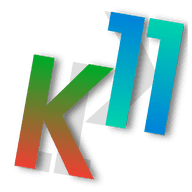
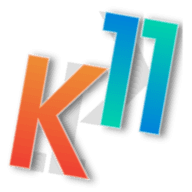
added new generated pack with simplified palette

diff --git a/iconpack/html_code.html b/iconpack/html_code.html
@@ -1,7 +1,9 @@
 <link rel="apple-touch-icon" sizes="180x180" href="/apple-touch-icon.png">
 <link rel="icon" type="image/png" sizes="32x32" href="/favicon-32x32.png">
+<link rel="icon" type="image/png" sizes="192x192" href="/android-chrome-192x192.png">
 <link rel="icon" type="image/png" sizes="16x16" href="/favicon-16x16.png">
 <link rel="manifest" href="/site.webmanifest">
-<link rel="mask-icon" href="/safari-pinned-tab.svg" color="#2244bb">
+<link rel="mask-icon" href="/safari-pinned-tab.svg" color="#225599">
 <meta name="msapplication-TileColor" content="#2b5797">
+<meta name="msapplication-TileImage" content="/mstile-144x144.png">
 <meta name="theme-color" content="#ffffff">

diff --git a/iconpack/README.md b/iconpack/README.md
@@ -12,10 +12,12 @@ Insert the following code in the `head` section of your pages:
 
     <link rel="apple-touch-icon" sizes="180x180" href="/apple-touch-icon.png">
     <link rel="icon" type="image/png" sizes="32x32" href="/favicon-32x32.png">
+    <link rel="icon" type="image/png" sizes="192x192" href="/android-chrome-192x192.png">
     <link rel="icon" type="image/png" sizes="16x16" href="/favicon-16x16.png">
     <link rel="manifest" href="/site.webmanifest">
-    <link rel="mask-icon" href="/safari-pinned-tab.svg" color="#2244bb">
+    <link rel="mask-icon" href="/safari-pinned-tab.svg" color="#225599">
     <meta name="msapplication-TileColor" content="#2b5797">
+    <meta name="msapplication-TileImage" content="/mstile-144x144.png">
     <meta name="theme-color" content="#ffffff">
 
 *Optional* - Check your favicon with the [favicon checker](https://realfavicongenerator.net/favicon_checker)
